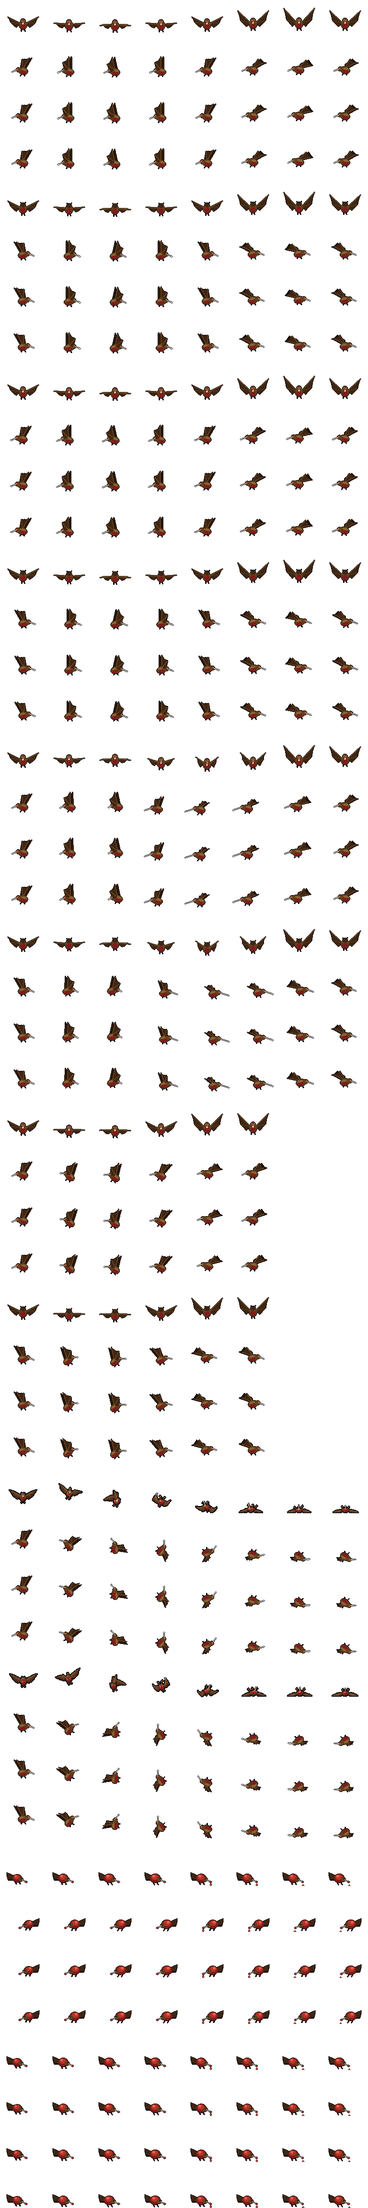
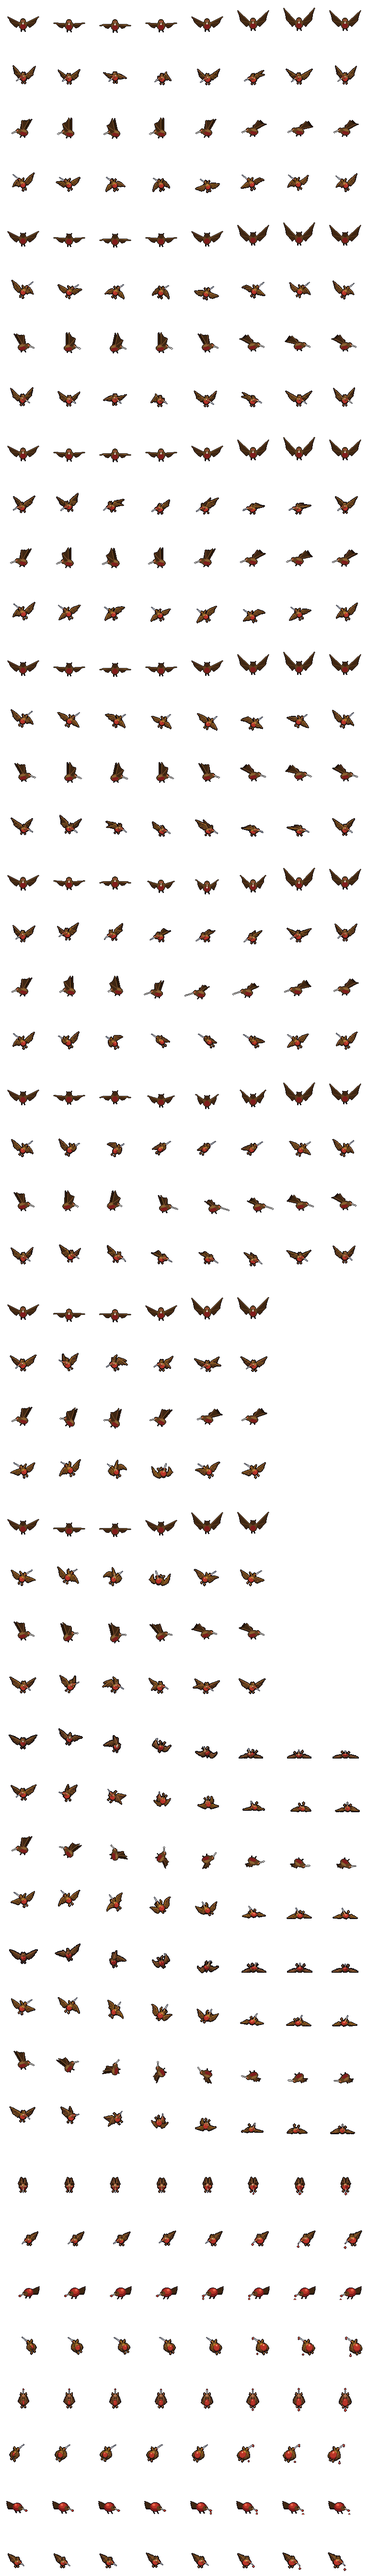
The stirge in all eight facings: the art desk's ART-48 cut onto stirge_p1 (SE/SW, NE/NW every row; S and N its latch)
ART-48's six pages (sorted out of Fresh to deep16/_src/stirge/ART-48/) cut by their own row and number labels in
tools/bugs-sheet.py (art48, the HURT_FB way): SE and NE Idle, Fly, Blood Drain, Flinch, Fall and Latched, S and N Latched. Idle ->
idle, Fly -> walk, Blood Drain -> attack, Flinch -> flinch, Fall -> hurt, Latched -> latched; SW and NW mirrored (codeart.lay
learns a row's SE and NE; every other code-drawn sheet lays as before, the beetle's and the centipede's byte for byte). E and W
keep the code's side rows, S and N its front and back and his GPT fall. Each page 1 by area against the code's idle, each page
2 by its Flinch 1 against its Idle 1, S and N's latch by area against SE's and NE's; each row's first frame where the code's
hovers or rides, the Fall landing by the code's own drop. The cells grow to 112 tall below the foot (AY 84 kept) for the drawn
latch's proboscis and drops; every code frame padded below, unmoved.

Griz, 2026-10-21, to the lanes desk: "Spin a single monster cutter instance up (choose your own from Fresh!) and have one
going after another finishes until we approach session limit (90%)".

diff --git a/deep16/data/sprites.js b/deep16/data/sprites.js
@@ -12727,63 +12727,63 @@ true
 }
 },
 "stirge_p1": {
-"image": "art/stirge_p1.png?v=184f8159c7",
+"image": "art/stirge_p1.png?v=6b17414c22",
 "fw": 96,
-"fh": 96,
+"fh": 112,
 "ax": 48,
 "ay": 84,
 "top": 62,
-"source": "drawn in code by tools/bugs-sheet.py (10-05)",
+"source": "drawn in code by tools/bugs-sheet.py (10-05); SE and NE every row and S and N its latch drawn by the art desk (ART-48, 10-21)",
 "anims": {
 "idle": {
 "y": 0,
 "fw": 96,
-"fh": 96,
+"fh": 112,
 "ax": 48,
 "ay": 84,
 "frames": 8,
 "fps": 8
 },
 "walk": {
-"y": 768,
+"y": 896,
 "fw": 96,
-"fh": 96,
+"fh": 112,
 "ax": 48,
 "ay": 84,
 "frames": 8,
 "fps": 10
 },
 "attack": {
-"y": 1536,
+"y": 1792,
 "fw": 96,
-"fh": 96,
+"fh": 112,
 "ax": 48,
 "ay": 84,
 "frames": 8,
 "fps": 12
 },
 "flinch": {
-"y": 2304,
+"y": 2688,
 "fw": 96,
-"fh": 96,
+"fh": 112,
 "ax": 48,
 "ay": 84,
 "frames": 6,
 "fps": 10
 },
 "hurt": {
-"y": 3072,
+"y": 3584,
 "fw": 96,
-"fh": 96,
+"fh": 112,
 "ax": 48,
 "ay": 84,
 "frames": 8,
 "fps": 8
 },
 "latched": {
-"y": 3840,
+"y": 4480,
 "fw": 96,
-"fh": 96,
+"fh": 112,
 "ax": 48,
 "ay": 84,
 "frames": 8,

diff --git a/deep16/index.html b/deep16/index.html
@@ -77,7 +77,7 @@
 <script src="js/art.js?v=e1ce4cf012"></script>
 <script src="data/cavern.js?v=647c1a184a"></script>
 <script src="data/maps.js?v=971b4fe9e6"></script>
-<script src="data/sprites.js?v=3c596d13ee"></script>
+<script src="data/sprites.js?v=a9fc8e6ca2"></script>
 <script src="js/sprites.js?v=132505c283"></script>
 <script src="js/save.js?v=1191d6f29a"></script>
 <script src="data/spells.js?v=b819b6e987"></script>

diff --git a/tools/bugs-sheet.py b/tools/bugs-sheet.py
@@ -426,6 +426,114 @@ def hurt_fb(name, idle):
     return out
 
 
+# ------------------------------------------------------------------ the stirge's diagonals: the art desk's ART-48 (10-21)
+# Six pages in deep16/_src/stirge/ART-48/ (sorted out of Fresh by its ART-48-sort.py; the desk's papers in
+# _src/art-desk/received-2026-10-21-ART-48-stirge-FINAL-SHEETS/): HEAD 1 SE and HEAD 2 NE every row on two pages (Idle, Fly, Blood Drain;
+# Flinch, Fall, Latched), HEAD 3 S and HEAD 5 N its Latched. Cut by tools/sheetrows.py, each row's name at its left, its numbers under it.
+# SE and NE fill every row (SW and NW their mirror, codeart.lay); S and N keep the code's front and back and his GPT fall, and take the
+# drawn Latched. Placed the HURT_FB way: each row's first frame where the code's own does (its centroid on the code frame's: the hover for
+# the flying rows, the shoulder for the latch), the rest where the page drew them against their numbers; the Fall lands on FLOOR by the
+# code's own drop. K (page px a game px) by area, the frame drawn at game size outline and all: each page 1's Idle (the median) against the
+# code's Idle between its side and its front (a diagonal sees the wings between edge-on and spread), each page 2 by its Flinch 1 (hovering,
+# the idle's pose) against its page 1's Idle 1, S and N's Latched against SE's and NE's Latched (the same latch seen from another side: against
+# the code's compact side latch they drew 40-50 px tall, the wings folded upright; the abdomen, a ball, swells at a pace of its own in each view).
+ART48 = dict(
+    H1P1=dict(file='ART-48_HEAD-1_PAGE-1.png', W=1774, text=[(0, 188, 110, 225), (0, 450, 95, 495), (0, 693, 175, 727)],
+              rows=[('idle', (0, 110, 1774, 308), (282, 305)), ('walk', (0, 360, 1774, 565), (539, 562)), ('attack', (0, 600, 1774, 811), (784, 808))]),
+    H1P2=dict(file='ART-48_HEAD-1_PAGE-2.png', W=1774, text=[(0, 192, 145, 231), (0, 450, 105, 489), (0, 691, 162, 729)],
+              rows=[('flinch', (0, 110, 1774, 309), (283, 306)), ('hurt', (0, 360, 1774, 574), (547, 571)), ('latched', (0, 625, 1774, 814), (785, 811))]),
+    H2P1=dict(file='ART-48_HEAD-2_PAGE-1.png', W=1774, text=[(0, 187, 110, 225), (0, 450, 95, 496), (0, 697, 170, 731)],
+              rows=[('idle', (0, 105, 1774, 309), (280, 306)), ('walk', (0, 365, 1774, 566), (539, 563)), ('attack', (0, 615, 1774, 813), (786, 810))]),
+    H2P2=dict(file='ART-48_HEAD-2_PAGE-2.png', W=1774, text=[(0, 197, 152, 236), (0, 446, 105, 485), (0, 699, 170, 737)],
+              rows=[('flinch', (0, 100, 1774, 310), (279, 307)), ('hurt', (0, 360, 1774, 582), (554, 579)), ('latched', (0, 625, 1774, 837), (810, 834))]),
+    H3P1=dict(file='ART-48_HEAD-3_PAGE-1.png', W=2172, text=[(0, 355, 225, 420)], rows=[('latched', (0, 270, 2172, 523), (491, 520))]),   # (the 'd' of Latched rode into Latched 1 on a tight box)
+    H5P1=dict(file='ART-48_HEAD-5_PAGE-1.png', W=2172, text=[(0, 361, 225, 425)], rows=[('latched', (0, 225, 2172, 538), (505, 535))]),
+)
+VIEWS48 = {'SE': ('H1P1', 'H1P2'), 'NE': ('H2P1', 'H2P2'), 'S': ('H3P1',), 'N': ('H5P1',)}
+DROP48 = [min(30, (i / 7) * 36) / 30 for i in range(8)]       # the code's own fall (stirge_rows' hurt): how far down, of the way to the floor
+FH48 = 112          # the stirge's cells since ART-48: 16 px more under the foot (AY stays 84) -- the drawn latch hangs its proboscis and its
+                    # drops some 20 px under the shoulder it rides, where the code's sat on it; every other frame is padded below, unmoved
+
+
+def art48(rows):
+    """-> {view: {anim: [8 Images or 6]}} from ART-48's pages; `rows` the code's rows ({'idle': {'side':, 'S':, 'N':}, ..., 'latched': [...]})"""
+    import importlib.util
+    from scipy import ndimage
+
+    def load(nm):
+        spec = importlib.util.spec_from_file_location(nm, os.path.join(ca.ROOT, 'tools', nm + '.py'))
+        mod = importlib.util.module_from_spec(spec); spec.loader.exec_module(mod)
+        return mod
+    SR, pix = load('sheetrows'), load('pixelate')
+    arr = lambda im: np.asarray(im)
+    area = lambda a: int((a[..., 3] > 0).sum())
+    cen = lambda a: tuple(float(v.mean()) for v in np.where(a[..., 3] > 0)[::-1])   # (x, y)
+
+    def fit(im, k):
+        w, hh = im.size
+        img = im.convert('RGBa').resize((max(1, round(w / k)), max(1, round(hh / k))), Image.BOX).convert('RGBA')
+        pad = Image.new('RGBA', (img.width + 2, img.height + 2), (0, 0, 0, 0)); pad.paste(img, (1, 1))
+        return pix.pixelate(pad, 1, do_lift=False)
+
+    def k_for(ims, target):
+        lo, hi = 1.5, 12.0
+        for _ in range(24):
+            k = (lo + hi) / 2
+            got = float(np.median([area(fit(im, k)) for im in ims]))
+            lo, hi = (k, hi) if got > target else (lo, k)
+        return (lo + hi) / 2
+
+    cuts = {}
+    for L, s in ART48.items():
+        a = np.asarray(Image.open(os.path.join(_src_dir(), 'stirge', 'ART-48', s['file'])).convert('RGB')).astype(np.int32)
+        spec = dict(text=s['text'] + [(0, l0 - 3, s['W'], l1 + 4) for _, _, (l0, l1) in s['rows']],
+                    rows=[(r, b, l, [str(i + 1) for i in range(8 if r not in ('flinch',) else 6)]) for r, b, l in s['rows']])
+        got = SR.cut_sheet(os.path.join(_src_dir(), 'stirge', 'ART-48', s['file']), spec, tag=L)
+        lx = {r: SR.label_xs(a, b[0], b[2], l[0], l[1]) for r, b, l in s['rows']}
+        cuts[L] = {r: [(im, box, lx[r][i]) for i, (_, im, box) in enumerate(frs)] for r, frs in got.items()}
+    code_idle = float(np.median([area(arr(im)) for im in rows['idle']['side']] + [area(arr(im)) for im in rows['idle']['S']]))
+    K = {}
+    for v, (p1, p2) in (('SE', ('H1P1', 'H1P2')), ('NE', ('H2P1', 'H2P2'))):
+        K[p1] = k_for([im for im, _, _ in cuts[p1]['idle']], code_idle)
+        K[p2] = K[p1] * np.sqrt(area(fit(cuts[p2]['flinch'][0][0], K[p1])) / area(fit(cuts[p1]['idle'][0][0], K[p1])))
+    sq = lambda L: float(np.median([np.sqrt(ndimage.binary_fill_holes(arr(im)[..., 3] > 0).sum()) for im, _, _ in cuts[L]['latched']]))
+    for L, by in (('H3P1', 'H1P2'), ('H5P1', 'H2P2')):         # the same latch from the front and behind: by area against SE's and NE's
+        K[L] = K[by] * sq(L) / sq(by)
+    print('  ART-48 K: ' + ', '.join('%s %.2f' % kv for kv in K.items()))
+    hover = cen(arr(rows['idle']['side'][0]))                  # where the code's stirge hovers (its idle 1's centroid)
+    latch = cen(arr(rows['latched'][0]))                       # and where it rides a shoulder (its latched 1's)
+    out = {}
+    for v, pages in VIEWS48.items():
+        out[v] = {}
+        for L in pages:
+            k = K[L]
+            for an, frs in cuts[L].items():
+                fits = [fit(im, k) for im, _, _ in frs]
+                # each frame's centroid where the page drew it, against its number (x) and the row (y), page px -> game px
+                rel = [((box[0] + cen(arr(im))[0] - x) / k, (box[1] + cen(arr(im))[1]) / k) for im, box, x in frs]
+                if an == 'latched':
+                    at = (AX, latch[1]) if v in ('S', 'N') else latch          # (S and N, from the front and behind: on the shoulder's column)
+                else:
+                    at = hover
+                pos = [(at[0] + rx - rel[0][0], at[1] + ry - rel[0][1]) for rx, ry in rel]
+                if an == 'hurt':                                            # from the hover to the floor, by the code's own fall
+                    low = pos[-1][1] + (np.where(fits[-1][..., 3].any(axis=1))[0][-1] - cen(fits[-1])[1])
+                    pos = [(x, y + (FLOOR - low) * d) for (x, y), d in zip(pos, DROP48)]
+                row = []
+                for a, (x, y) in zip(fits, pos):
+                    gx, gy = cen(a)
+                    ox, oy = int(round(x - gx)), int(round(y - gy))
+                    fr = np.zeros((FH48, FW, 4), np.uint8)
+                    ah, aw = a.shape[:2]
+                    y0, x0, y1, x1 = max(0, oy), max(0, ox), min(FH48, oy + ah), min(FW, ox + aw)
+                    fr[y0:y1, x0:x1] = a[y0 - oy:y1 - oy, x0 - ox:x1 - ox]
+                    if (fr[..., 3] > 0).sum() < (a[..., 3] > 0).sum():
+                        raise SystemExit('stirge %s %s %s: cut off at the frame edge (rows %d..%d cols %d..%d)' % (L, an, len(row) + 1, oy, oy + ah - 1, ox, ox + aw - 1))
+                    row.append(Image.fromarray(fr, 'RGBA'))
+                out[v][an] = row
+    return out
+
+
 def with_fb(name, rows):
     """Bring each row's front (S) and back (N) beside its side frames; hurt takes his generated sheet's where there is one (10-08), else
     keeps the side frames (as the clacker's sheet)."""
@@ -455,6 +563,15 @@ def with_fb(name, rows):
     fb = hurt_fb(name, out['idle'])
     if fb:
         out['hurt'] = dict(side=out['hurt'], **fb)
+    if name == 'stirge':                                    # ART-48 (10-21): SE and NE every row, S and N their Latched
+        dg = art48(out)
+        out['latched'] = dict(side=out['latched'])
+        tall = lambda im: im if im.size[1] == FH48 else (lambda c: (c.paste(im, (0, 0)), c)[1])(Image.new('RGBA', (FW, FH48), (0, 0, 0, 0)))
+        for an in out:                                       # (the code's 96-px frames padded below to FH48, the foot where it was)
+            out[an] = {v: [tall(im) for im in fs] for v, fs in out[an].items()}
+        for v, an_rows in dg.items():
+            for an, fr in an_rows.items():
+                out[an][v] = fr
     return out
 
 
@@ -470,5 +587,6 @@ if __name__ == '__main__':
         if 'preview' in sys.argv:
             ca.preview(rows, os.path.join(ca.ROOT, 'dev', 'shots', 'bugs-%s.png' % nm))
         else:
-            sh, meta = ca.lay(rows, FW, FH, AX, AY, top, 'drawn in code by tools/bugs-sheet.py (10-05)', out, fps_of=fps)
+            src = 'drawn in code by tools/bugs-sheet.py (10-05)' + ('; SE and NE every row and S and N its latch drawn by the art desk (ART-48, 10-21)' if nm == 'stirge' else '')
+            sh, meta = ca.lay(rows, FW, FH48 if nm == 'stirge' else FH, AX, AY, top, src, out, fps_of=fps)
             print('wrote deep16/art/%s.png' % out, sh.size)

diff --git a/tools/codeart.py b/tools/codeart.py
@@ -123,8 +123,11 @@ def lay(anims, FW, FH, AX, AY, top, source, name, fps_of=None, flipset=(1, 2, 3)
         meta[an] = {'y': y, 'fw': FW, 'fh': FH, 'ax': AX, 'ay': AY, 'frames': len(side), 'fps': fps}
         for f in range(FACINGS):
             frames = fr.get({0: 'S', 4: 'N'}.get(f), side) if isinstance(fr, dict) else side
+            flip = f in flipset and frames is side
+            if isinstance(fr, dict) and {7: 'SE', 5: 'NE', 1: 'SE', 3: 'NE'}.get(f) in fr:   # a row may bring its drawn diagonals too (the art desk's
+                frames, flip = fr[{7: 'SE', 5: 'NE', 1: 'SE', 3: 'NE'}[f]], f in (1, 3)     # pages, 10-21): SE and NE as drawn, SW and NW their mirror
             for i, im in enumerate(frames):
-                sheet.paste(mirror(im) if (f in flipset and frames is side) else im, (i * FW, y + f * FH))
+                sheet.paste(mirror(im) if flip else im, (i * FW, y + f * FH))
         y += FH * FACINGS
     sheet.save(os.path.join(D16, 'art', name + '.png'), optimize=True)
     json.dump({'image': 'art/%s.png' % name, 'fw': FW, 'fh': FH, 'ax': AX, 'ay': AY, 'top': top, 'source': source, 'anims': meta},
